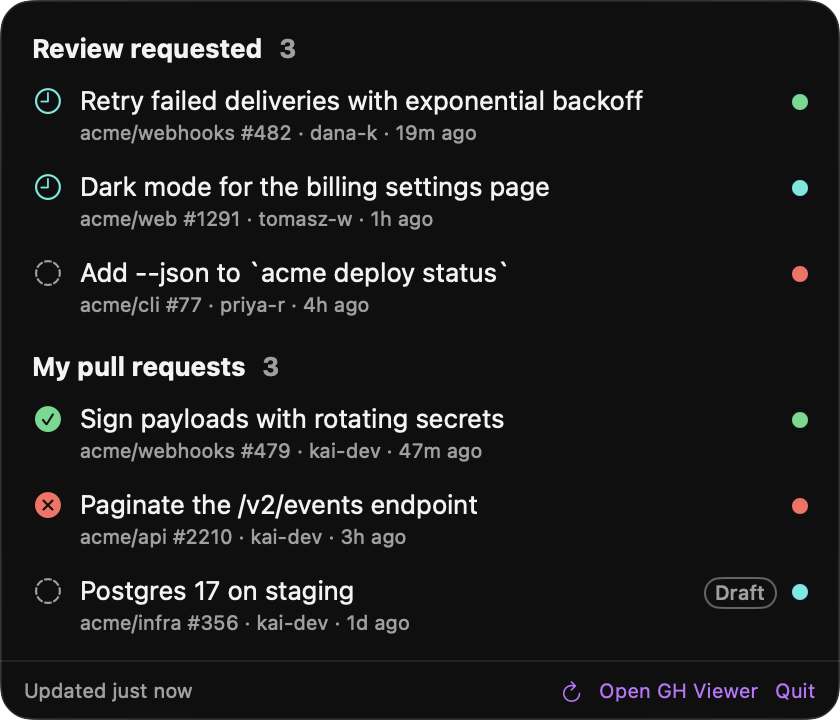
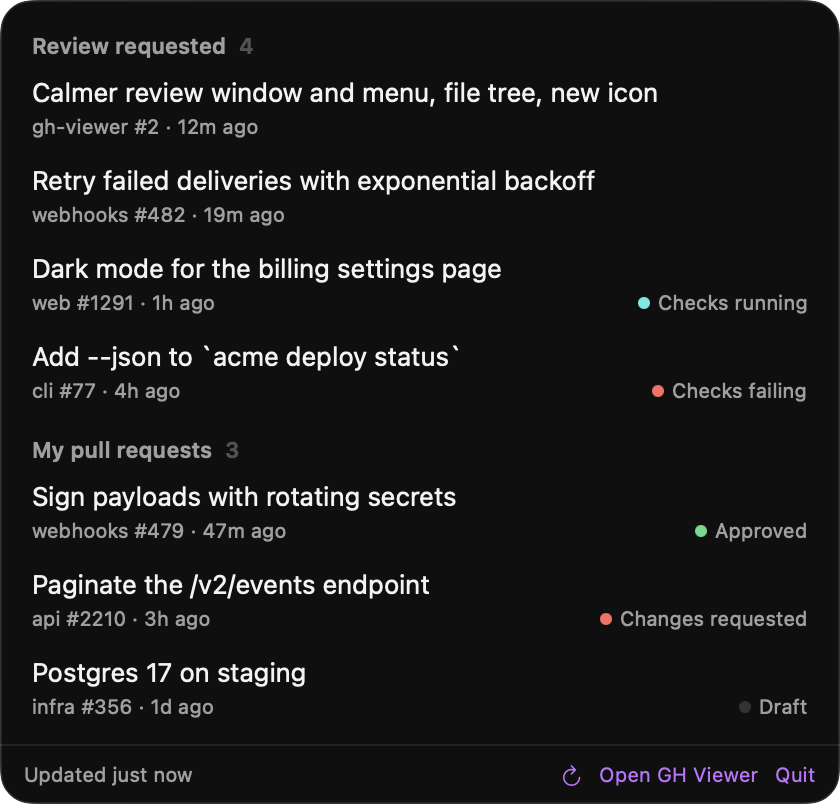
docs: README and screenshots for the redesigned menu and window

diff --git a/README.md b/README.md
@@ -60,34 +60,42 @@ There's nothing to configure in GH Viewer.
 
 ### Your review queue, one click away
 
-<img src="docs/assets/screenshots/menu-bar.png" width="380" align="right" alt="The menu bar list: PRs waiting on your review and your own PRs, with review and CI status">
+<img src="docs/assets/screenshots/menu-bar.png" width="380" align="right" alt="The menu bar list: PRs waiting on your review and your own PRs, each with its repo, age and status">
 
 The menu bar shows the PRs that wait on your review (the icon shows how many)
-and your own open PRs, with their review decision and CI status. Click one to
-review it, right-click to open it in your browser.
+and your own open PRs, five of each, with a link to the window for the rest.
+Click one to review it, right-click to open it in your browser.
+
+Each row says what the PR does, then its repo, number and age. A status shows
+only when there is news: Checks failing, Changes requested, Draft, Approved or
+Checks running.
 
 It refreshes every 2 minutes, and when you open the menu if the data is more
 than 30 seconds old. **⌘R** refreshes now.
 
-Each PR says its state in words: Draft, Approved, Changes requested, Checks failing
-or Checks running. A PR with nothing to report shows nothing.
-
 Colors follow the theme you pick in Settings (**⌘,** with the review window open):
-Cool, Soft, Focus or Vivid, in light or dark. Settings also has four app icons to pick from
-for the Dock.
+Cool, Soft, Focus or Vivid, in light or dark. Settings also has four app icons
+to pick from for the Dock.
 
 <br clear="right">
 
 ### A diff that keeps up with you
 
-<img src="docs/assets/screenshots/review-window.png" alt="The review window: PRs grouped by repo, the changed files and the diff">
+<img src="docs/assets/screenshots/review-window.png" alt="The review window: PRs grouped by what they need, the diff, and the agent chat">
 
-- Your PRs grouped by what they need: your review, your own, and the ones you've already reviewed.
-- The window opens on the first PR waiting on you, and moves to the next one after you submit a review.
-- The sidebar switches between your pull requests and the open one's files, as a folder tree. Its filter button hides the sections or the viewed files you don't need to see. Hover a diff line for the "+", click it to comment or ask the agent.
+- The sidebar lists your PRs by what they need: your review, your own, and the
+  ones you've already reviewed. Its second tab shows the open PR's files as a
+  folder tree.
+- The filter button next to the tabs hides the sections, or the viewed files,
+  you don't need to see.
+- The window opens on the PR you had open last, or the first one waiting on
+  you, and moves to the next one after you submit a review.
+- Hover a diff line for the "+", then click the line to comment on it or ask
+  the agent about it.
 - A unified diff computed from a local checkout, not fetched from GitHub's API.
 - "Viewed" checkboxes sync with GitHub. Viewed and very large files start collapsed.
 - Review threads from GitHub, placed on the lines they're about.
+- The agent chat sits beside the diff. Close it from the toolbar and it stays closed.
 
 ### An agent that has read the code
 
